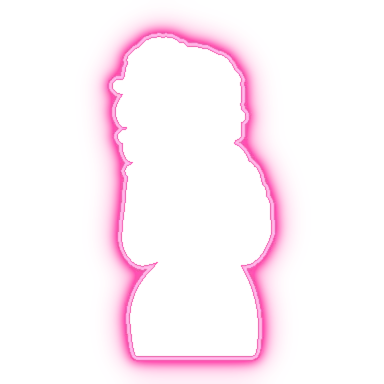
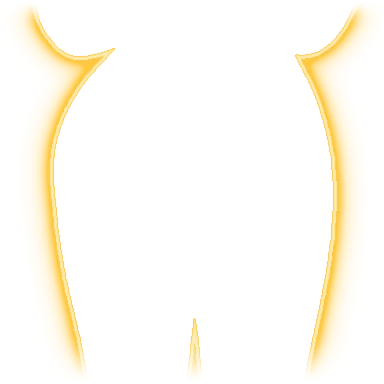
v3.10: single wilds v4 - W_R1..W_R5 closer crop of the same r8d singles (midriff to upper thighs, WILD tattoo, from the native 2x render), one neon gold glow #FFC83D for all five traced on the whole figure (gen-wild-singles-v4.py); stacks/merges/W_single untouched; Dare buy + Sticky intro cards keep

Changed region(s): [[0.0312, 0.0, 0.7812, 1.0], [0.75, 0.0, 0.9688, 0.9688]]

diff --git a/frontend/apps/elfhaus/src/game/bookEventHandlerMap.ts b/frontend/apps/elfhaus/src/game/bookEventHandlerMap.ts
@@ -47,6 +47,16 @@ function lockCarried(l: Locked) {
 }
 export const endBonusUi = () => { music('base'); setBg(false); document.body.classList.remove('inBonus'); $('#fsBar').classList.add('hidden'); $('#intro').classList.add('hidden'); S.inBonus = false; };
 
+/** v3.10 EGW: the reels named by egwStart (reel -> stack value). The math sends them as already-locked full reels in the
+ * next reveal, which used to pin them on the board before the spin even started ("drops the wilds like a ton of bricks").
+ * Now that reveal spins them like any other reel: they stop left to right in the normal order with the normal settle,
+ * land as four single wilds (normal wildLand + glow brighten), then form their stack through the same stackComplete path
+ * as a stack that lands in base / Dare (stackIn: calm stack-from-singles + face reaction; turbo: its short squash/pop).
+ * No extra anticipation: the reveal's own math anticipation flags apply, exactly as in the other modes. */
+let egwPending: Map<number, number> | null = null;
+/** split a stack value over the four singles so their badges add up to it (stackComplete sums the parts) */
+const egwParts = (v: number) => Array.from({ length: ROWS }, (_, i) => Math.floor(v / ROWS) + (i < v % ROWS ? 1 : 0)).map((x) => Math.max(1, x));
+
 type Handlers = { [T in BookEventType]: (ev: BookEventOf<T>) => Promise<void> };
 export const bookEventHandlerMap: Handlers = {
 	// Reels stop left to right (reels.ts timing); the spin press already started the blur in base play, free spins
@@ -54,16 +64,18 @@ export const bookEventHandlerMap: Handlers = {
 	async reveal(ev) {
 		clearLines(); hideToast(); hideRespin();
 		const lockedSingles = new Set(ev.locked.singles.map((s) => k(s.reel, s.row)));
-		const fullLocked = new Set(ev.locked.fullReels.map((f) => f.reel));
+		const egw = egwPending; egwPending = null;
+		const fullLocked = new Set(ev.locked.fullReels.filter((f) => !egw?.has(f.reel)).map((f) => f.reel));
 		if (!isSpinning()) startSpin((r, row) => fullLocked.has(r) || lockedSingles.has(k(r, row)));
 		S.sym = ev.board.map((col) => col.slice(1, 1 + ROWS).map((s) => s.name));
 		S.vals = new Map(); S.full = new Map();
-		ev.locked.fullReels.forEach((f) => S.full.set(f.reel, f.value));
+		ev.locked.fullReels.forEach((f) => { if (!egw?.has(f.reel)) S.full.set(f.reel, f.value); });
 		// merged groups whose stacks are all carried over stay merged (no re-merge animation every free spin)
 		S.groups = S.groups.filter((g) => g.reels.every((r) => S.full.has(r))).map((g) => {
 			const values = g.reels.map((r) => S.full.get(r)!); return { reels: g.reels, values, product: values.reduce((a, b) => a * b, 1) };
 		});
 		ev.board.forEach((col, r) => col.slice(1, 1 + ROWS).forEach((s, row) => { if (s.wild && !S.full.has(r)) S.vals.set(k(r, row), s.multiplier || 1); }));
+		egw?.forEach((v, r) => egwParts(v).forEach((p, row) => { S.sym[r][row] = 'W'; S.vals.set(k(r, row), p); }));
 		renderOverlays(false); warmStacks();
 		const T = timing();
 		const ant = ev.anticipation.some((a) => a > 0);
@@ -97,6 +109,9 @@ export const bookEventHandlerMap: Handlers = {
 		clearTimeout(riserT); (riser as Handle | null)?.stop(150);
 		markStopped();
 		await sleep(T.land);
+		// EGW: the landed singles form their stacks one reel at a time, left to right, like stacks landing in the other modes
+		if (egw) for (const [reel, value] of [...egw].sort((a, b) => a[0] - b[0]))
+			await bookEventHandlerMap.stackComplete({ type: 'stackComplete', index: -1, step: 0, reel, parts: egwParts(value), value, instant: false });
 	},
 	async stackComplete(ev) {
 		// the four wild values ADD into the stack's value (SPEC: sum of the 4 cell values)
@@ -265,7 +280,7 @@ export const bookEventHandlerMap: Handlers = {
 		if (ev.outcome !== 'none') { banner(`${TL(ev.outcome)}!`, 1500); sfx('bonus_trigger'); duckFor(3000); voice('bonus'); }
 		await wait(ev.outcome === 'none' ? 500 : 1100);
 	},
-	async egwStart() { await wait(300); },
+	async egwStart(ev) { egwPending = new Map(ev.reels.map((r) => [r, ev.value])); },
 	async buyTriggerStart() { await wait(200); },
 	async wincap() { hideRespin(); setWinMeter(MAX_WIN_X); await maxWinCelebration(); },
 	async finalWin(ev) { setWinMeter(Math.min(ev.amount / 100, MAX_WIN_X)); },

diff --git a/frontend/apps/elfhaus/src/game/game.ts b/frontend/apps/elfhaus/src/game/game.ts
@@ -270,7 +270,7 @@ async function playReplay() {
 // 3-elf groups, Elves Gone Wild = the 5-wide group; Mystery Spin is a face-down card with an ink "?" (not the studio logo).
 // v3.6: Double / Triple / Elves Gone Wild use the approved stacks r8d stills (scripts/gen-stack-stills.py), not the old
 // static WM2 / WM3 / WM5 scenes.
-const CARD_ART: Partial<Record<ModeKey, string>> = { dare: ART.W_R1 || '', double_dare: 'assets/stacks/still/WM2_R1-2.webp', triple_dare: 'assets/stacks/still/WM3_R1-3.webp', egw: 'assets/stacks/still/WM5_R1-5.webp' };
+const CARD_ART: Partial<Record<ModeKey, string>> = { dare: ART.W_R1_card || ART.W_R1 || '', double_dare: 'assets/stacks/still/WM2_R1-2.webp', triple_dare: 'assets/stacks/still/WM3_R1-3.webp', egw: 'assets/stacks/still/WM5_R1-5.webp' };
 const MYSTERY_CARD = `<svg class="bMyst" viewBox="0 0 100 100" aria-hidden="true"><rect x="23" y="12" width="54" height="76" rx="7" fill="#2A1734" stroke="#E7A6CB" stroke-width="2.5"/>` +
 	`<rect x="29" y="18" width="42" height="64" rx="4" fill="none" stroke="#E7A6CB" stroke-width="1" opacity=".55"/><text x="50" y="64" text-anchor="middle" font-family="Cinzel" font-weight="800" font-size="40" fill="#FBEAF4">?</text></svg>`;
 function buildBuy() {

diff --git a/frontend/apps/elfhaus/src/game/intro.ts b/frontend/apps/elfhaus/src/game/intro.ts
@@ -14,7 +14,7 @@ const url = (f: string) => U['../assets/intro/' + f] || '';
 // art: an ART key, or (egw, v3.6) the approved stacks r8d still of the merged pair instead of the old static WM2 scene
 const CARDS: Record<'modes' | 'sticky' | 'egw', { art: string; title: string; line: string }> = {
 	modes: { art: 'S', title: '4 Bonus Modes', line: 'Dare, Double, Triple or a Mystery Spin.' },
-	sticky: { art: 'W_R2', title: 'Sticky Wilds', line: 'Wilds lock in place and grow every respin.' },
+	sticky: { art: 'W_R2_card', title: 'Sticky Wilds', line: 'Wilds lock in place and grow every respin.' },
 	egw: { art: 'assets/stacks/still/WM2_R1-2.webp', title: 'Elves Gone Wild', line: 'Full wild reels side by side multiply.' },
 };
 

diff --git a/frontend/apps/elfhaus/scripts/gen-wild-singles-v4.py b/frontend/apps/elfhaus/scripts/gen-wild-singles-v4.py
@@ -1,0 +1,64 @@
+#!/usr/bin/env python3
+"""Single-cell wilds W_R1..W_R5 v4 (v3.10): closer crop, midriff to upper thighs, one shared gold glow.
+
+Owner 2026-10-26: the single wilds blend in with the high symbols, so each reel keeps its elf but the single is a closer
+crop of the same approved r8d art (her backside in the thong with the WILD tattoo), cropped at the midriff; all five glow
+the same neon gold. Stacked / merged wilds are untouched (they use assets/stacks/*, not these sprites).
+Source: the r8d singles rendered at the pipeline's native 2x (512x2048, body + WILD letters), produced by
+/workspace/elfhaus-wilds-v4/render2x.py through stacks_v2/build_v2.body()/letters(); their LANCZOS downscale is bit-identical
+to the shipped stacks_v2/groups g1..g5 (checked), so this is the same art at twice the resolution, no repaint, no upscale.
+Crop: one shared box height for all five (rows Y0..Y0+SIDE at 2x, square), centred on each elf's hips; SIDE -> 384 (x0.74).
+Soft fades at the cut top (midriff) and bottom (thighs). Glow: the gen-wild-glow.py / symbols-v3 recipe (crisp line just
+outside the outline + white-hot core + r7/r18 bloom, transparent centre) traced on the WHOLE scaled figure and then cropped
+with the same box and fades, so it follows only her real silhouette and never draws a line along the crop edges.
+Writes assets/final/webp/wild_W_R<n>.webp + wild_W_R<n>_glow.webp. Run from frontend/apps/elfhaus:
+  python3 scripts/gen-wild-singles-v4.py [outdir]
+"""
+import os, sys, numpy as np, cv2
+from PIL import Image
+
+ROOT = os.path.abspath(os.path.join(os.path.dirname(__file__), '../../../..'))
+OUT = sys.argv[1] if len(sys.argv) > 1 else os.path.join(ROOT, 'assets/final/webp')
+SRC = os.environ.get('WILDS2X_SRC', '/workspace/elfhaus-wilds-v4/src2x')
+ELF = ['roxy', 'jade', 'vi', 'coco', 'delilah']
+Y0, SIDE = 872, 520        # 2x rows: midriff (just under the tops' hems) .. upper thighs; square crop, ~45 px side room for the glow
+HIP_Y = 1100               # 2x row used to centre each elf horizontally (her hips)
+S = 384                    # output canvas, same as before (same registration on the board)
+FADE_T, FADE_B = 0.07, 0.13
+GOLD = np.array([0xFF, 0xC8, 0x3D], np.float32)   # one neon gold for all five, white-hot core in glow()
+
+def disk(r): y, x = np.ogrid[-r:r + 1, -r:r + 1]; return (x * x + y * y <= r * r).astype(np.uint8)
+def dil(a, r): return cv2.dilate(a, disk(r)) if r > 0 else a
+def glow(alpha, neon, k):   # gen-wild-glow.py recipe; k = px per 512-wide sprite unit (here the 384 canvas -> 0.75)
+	R = lambda r: max(1, round(r * k)); h, w = alpha.shape
+	A = (alpha > 128).astype(np.uint8)
+	l_out = dil(A, R(8)).astype(np.float32); line = cv2.GaussianBlur(np.clip(l_out - A, 0, 1), (0, 0), 0.6 * k)
+	core = cv2.GaussianBlur(np.clip(dil(A, R(5)).astype(np.float32) - dil(A, R(1)), 0, 1), (0, 0), 0.7 * k)
+	bloom = np.clip(1.1 * cv2.GaussianBlur(l_out, (0, 0), 7 * k) + 0.9 * cv2.GaussianBlur(l_out, (0, 0), 18 * k), 0, 1)
+	inside = cv2.GaussianBlur(A.astype(np.float32), (0, 0), 0.6 * k)
+	a = np.clip(np.maximum(line, bloom), 0, 1) * (1 - inside)
+	col = neon[None, None, :] * np.ones((h, w, 1), np.float32)
+	col = col * (1 - 0.65 * core[..., None]) + 255 * 0.65 * core[..., None]
+	return np.dstack([col, a * 255])
+def fades(h):
+	y = np.arange(h) / h
+	t = np.clip(y / FADE_T, 0, 1); b = np.clip((1 - y) / FADE_B, 0, 1)
+	sm = lambda x: x * x * (3 - 2 * x)
+	return (sm(t) * sm(b))[:, None]
+
+f = S / SIDE
+for i, e in enumerate(ELF, 1):
+	body = Image.open(f'{SRC}/g{i}_{e}_body2x.png').convert('RGBA')
+	body.alpha_composite(Image.open(f'{SRC}/g{i}_{e}_letters2x.png').convert('RGBA'))
+	A = np.asarray(body)[..., 3]; xs = np.where(A[HIP_Y] > 128)[0]; cx = (xs.min() + xs.max()) / 2
+	x0 = int(round(cx - SIDE / 2))
+	# pad so the crop box may run past the 512 px source width (transparent)
+	P = 64; pad = Image.new('RGBA', (body.width + 2 * P, body.height), (0, 0, 0, 0)); pad.alpha_composite(body, (P, 0))
+	big = pad.resize((round(pad.width * f), round(pad.height * f)), Image.LANCZOS)
+	bx, by = round((x0 + P) * f), round(Y0 * f)
+	spr = np.asarray(big.crop((bx, by, bx + S, by + S))).astype(np.float32)
+	g = glow(np.asarray(big)[..., 3], GOLD, S / 512)[by:by + S, bx:bx + S]
+	fd = fades(S); spr[..., 3] *= fd; g[..., 3] *= fd
+	Image.fromarray(np.clip(spr + .5, 0, 255).astype(np.uint8), 'RGBA').save(f'{OUT}/wild_W_R{i}.webp', 'WEBP', quality=92, alpha_quality=94, method=6)
+	Image.fromarray(np.clip(g, 0, 255).astype(np.uint8), 'RGBA').save(f'{OUT}/wild_W_R{i}_glow.webp', 'WEBP', quality=88, alpha_quality=92, method=6)
+	print(f'W_R{i}', e, 'crop2x', (x0, Y0, x0 + SIDE, Y0 + SIDE))

diff --git a/frontend/apps/elfhaus/scripts/gen-wild-glow.py b/frontend/apps/elfhaus/scripts/gen-wild-glow.py
@@ -14,7 +14,9 @@ ROOT = os.path.abspath(os.path.join(os.path.dirname(__file__), '../../../..'))
 W = os.path.join(ROOT, 'assets/final/webp')
 # glow colour per wild = the matching elf's symbols-v3 neon (R1 Roxy H1, R2 Jade H2, R3 Vi H3, R4 Coco H4); R5 Delilah
 # (no v3 symbol) uses her blue band; the single W uses Roxy/brand pink like its sticker band.
-COL = {'W_single': '#FF4FB0', 'W_R1': '#FF4FB0', 'W_R2': '#2EF2D8', 'W_R3': '#B46BFF', 'W_R4': '#FF5468', 'W_R5': '#4F8BFF'}
+# v3.10: W_R1..W_R5 singles + their gold glows now come from scripts/gen-wild-singles-v4.py (glow traced on the whole figure,
+# not on the cropped sprite); this script only regenerates the generic W_single glow.
+COL = {'W_single': '#FF4FB0'}
 hexc = lambda h: np.array([int(h[i:i + 2], 16) for i in (1, 3, 5)], np.float32)
 def disk(r): y, x = np.ogrid[-r:r + 1, -r:r + 1]; return (x * x + y * y <= r * r).astype(np.uint8)
 def dil(a, r): return cv2.dilate(a, disk(r)) if r > 0 else a

diff --git a/frontend/apps/elfhaus/scripts/gen-wild-singles.py b/frontend/apps/elfhaus/scripts/gen-wild-singles.py
@@ -1,5 +1,6 @@
 #!/usr/bin/env python3
-"""Single-cell wilds W_R1..W_R5 from the approved stacks r8d art (v3.7, gate F1).
+"""SUPERSEDED in v3.10 by scripts/gen-wild-singles-v4.py (kept for the record; do not re-run).
+Single-cell wilds W_R1..W_R5 from the approved stacks r8d art (v3.7, gate F1).
 
 Neither symbols v3 nor the r8d set has a single-cell wild per elf, so each W_R<n> is a crop of that reel's own r8d single
 (stacks_v2/groups/g<n>_reels<n>-<n>_<elf>.png = merge_idle frame 0 of WF_R<n>) with its r8d WILD letters

diff --git a/frontend/apps/elfhaus/APPROVED_ASSETS.md b/frontend/apps/elfhaus/APPROVED_ASSETS.md
@@ -50,7 +50,8 @@ Branch `final` is the integration branch. It holds **only** work the user has ap
 ## In progress / awaiting user approval (not in the build)
 | Item | Where |
 |---|---|
-| (none) | |
+| **Single wilds v4 (IN the v3.10 build, PENDING James's approval; revert = restore the v3.7 files from `/workspace/elfhaus-wilds-v4/v37/`).** Owner 2026-10-26: singles blend in with the highs, so W_R1..W_R5 keep their elf (R1 Roxy, R2 Jade, R3 Vi, R4 Coco, R5 Delilah) but are a closer crop of the SAME approved r8d single (body + WILD letters, no repaint): midriff to upper thighs, her backside in the thong with the WILD tattoo, one shared crop box (2x rows 872-1392, square, centred on her hips), soft fade top/bottom. Source = r8d singles re-rendered at the pipeline's native 2x (512x2048) through stacks_v2 `build_v2.body()/letters()`; their downscale is bit-identical to the shipped `groups/g1..g5`, so this is a 0.74x downscale, no upscale. **Glow: all five the same neon gold #FFC83D** with white-hot core (same recipe, traced on the whole figure then cropped, so no line along the crop edges); timings unchanged (land brighten + breathe). Merged / stacked wilds untouched (`assets/stacks/*`), `W_single` + its pink glow untouched, reel blur untouched (uses `wild_W_single`). Dare buy card + Sticky intro card keep the v3.7 head-to-hip art (`W_R1_card`, `W_R2_card`). | `scripts/gen-wild-singles-v4.py` (+ `/workspace/elfhaus-wilds-v4/render2x.py`) -> `assets/final/webp/wild_W_R1..5.webp` + `wild_W_R1..5_glow.webp`; review sheet `/workspace/elfhaus-wilds-v4/review_sheet.jpg`; `gen-wild-singles.py` superseded, `gen-wild-glow.py` now only W_single |
+| **EGW reels land like the other modes (IN v3.10, code, pending James).** Owner 2026-10-26: "on the EGW spins, there's no anticipation spinning. it just drops the wilds like a ton of bricks ... they need to land nice like the other modes." Cause: the math sends the egwStart reels as already-locked `fullReels` in the next reveal, so they were pinned on the board before the spin and never spun. Fix (`bookEventHandlerMap.ts`): egwStart records the reels; that reveal spins them, stops them left to right in the normal order and settle, lands four single wilds each (normal wildLand + glow brighten, badges split to sum to the stack value), then each reel forms its stack through the same `stackComplete` / `stackIn` path as base and Dare (calm stack-from-singles + face reaction; turbo = its short pop), then the book's `mergeGroups` runs as before. No EGW-only effect; anticipation only where the math flags it, as in other modes. Free spins have no egwStart (Triple Dare's `guaranteedStacks` is a separate grow-in), so nothing to fix there. | smoke: `/workspace/elfhaus-shots/v3.10/egw.mjs` (`egw_adjacent`, `egw_nonadjacent`, normal + turbo) |
 
 ## Rejected / do not use
 | Item | Why |
